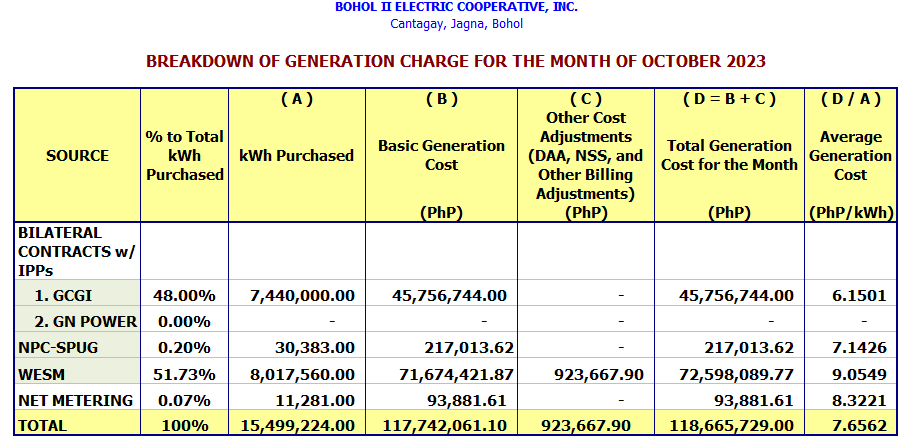
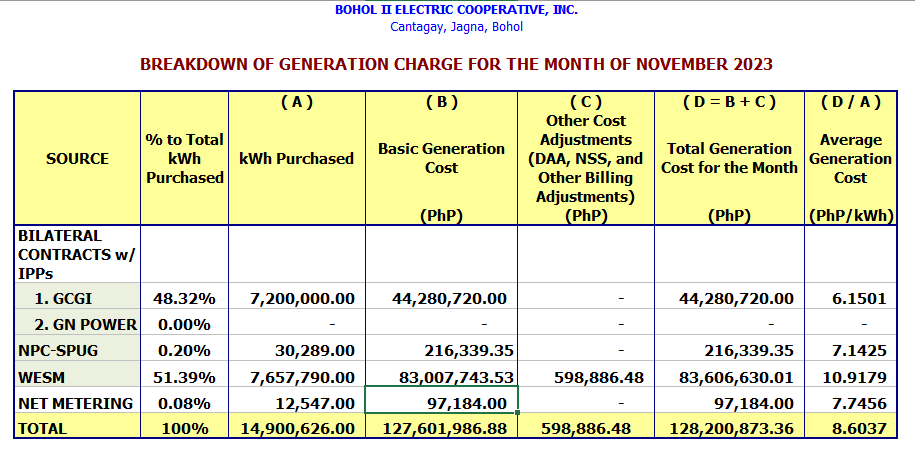
november 2023 gen charge update

Changed region(s): [[0.0, 0.1171, 1.0, 0.9955], [0.3392, 0.0, 0.6476, 0.0878], [0.0308, 0.3221, 0.1233, 0.3806]]

diff --git a/src/components/GenRates.jsx b/src/components/GenRates.jsx
@@ -6,7 +6,7 @@ const img = [
   "assets/rates/gr2.png",
 ];
 
-const months = ["October", "September", "August"];
+const months = ["November", "October", "September"];
 
 const Rates = () => {
   return (
